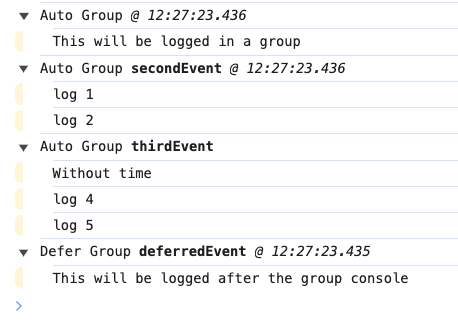
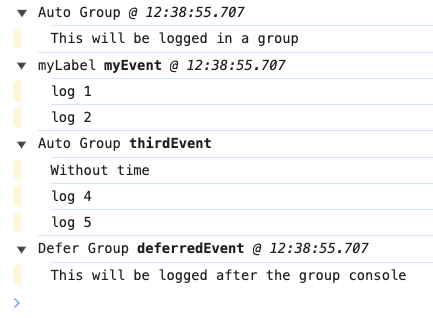
Update example

diff --git a/example.js b/example.js
@@ -6,18 +6,17 @@ const deferConsole = createDeferConsole({ defaultEvent: 'deferredEvent' })
 const groupConsole = createGroupConsole()
 
 deferConsole.log('This will be logged after the group console')
-// deferConsole.event('event')
-// deferConsole.showTime(false)
 
-// groupConsole.event('event')
 groupConsole.log('This will be logged in a group')
 groupConsole.endAutoGroup()
 
-groupConsole.event('secondEvent')
+groupConsole.event('myEvent')
+groupConsole.label('myLabel')
 groupConsole.log('log 1')
 groupConsole.log('log 2')
 groupConsole.endAutoGroup()
 
+groupConsole.label('Auto Group')
 groupConsole.event('thirdEvent')
 groupConsole.showTime(false)
 groupConsole.log('Without time')

diff --git a/README.md b/README.md
@@ -74,13 +74,13 @@ In addition to the full [Console API](https://developer.mozilla.org/en-US/docs/W
 
 ### event(_string_)
 
-Set the event type part of the group heading.
+Set the event type part of the group heading for the current event loop.
 
 > When using `groupConsole` this has to be set before all other console messages.
 
 ### label(_string_)
 
-Set the label type part of the group heading.
+Set the label type part of the group heading for all future messages.
 
 > When using `groupConsole` this has to be set before all other console messages.
 
